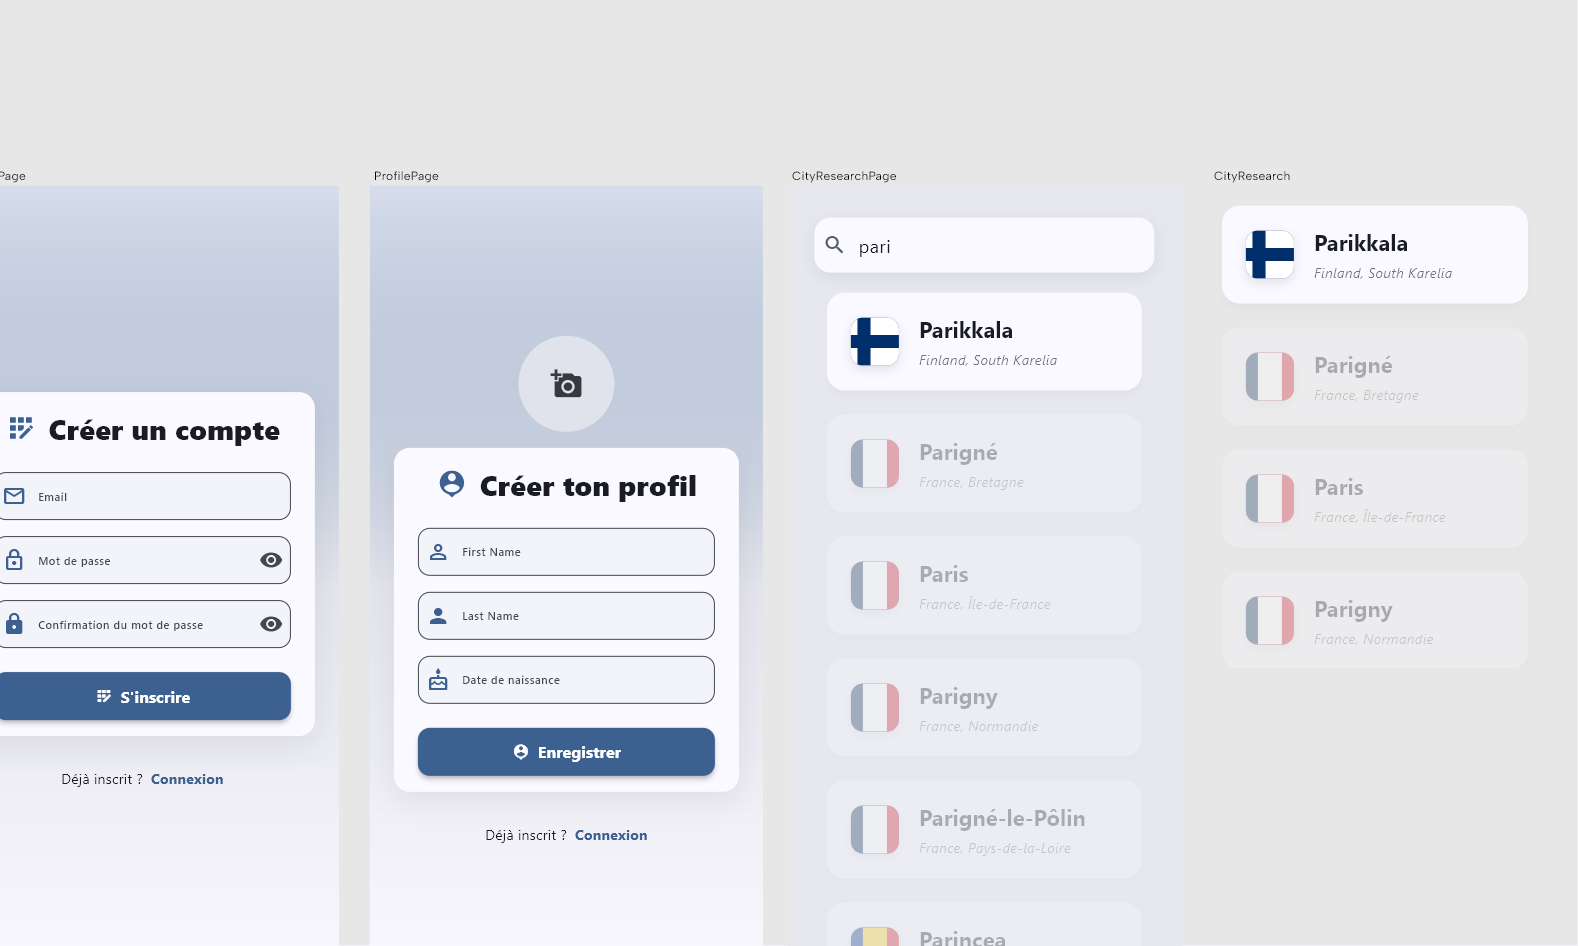
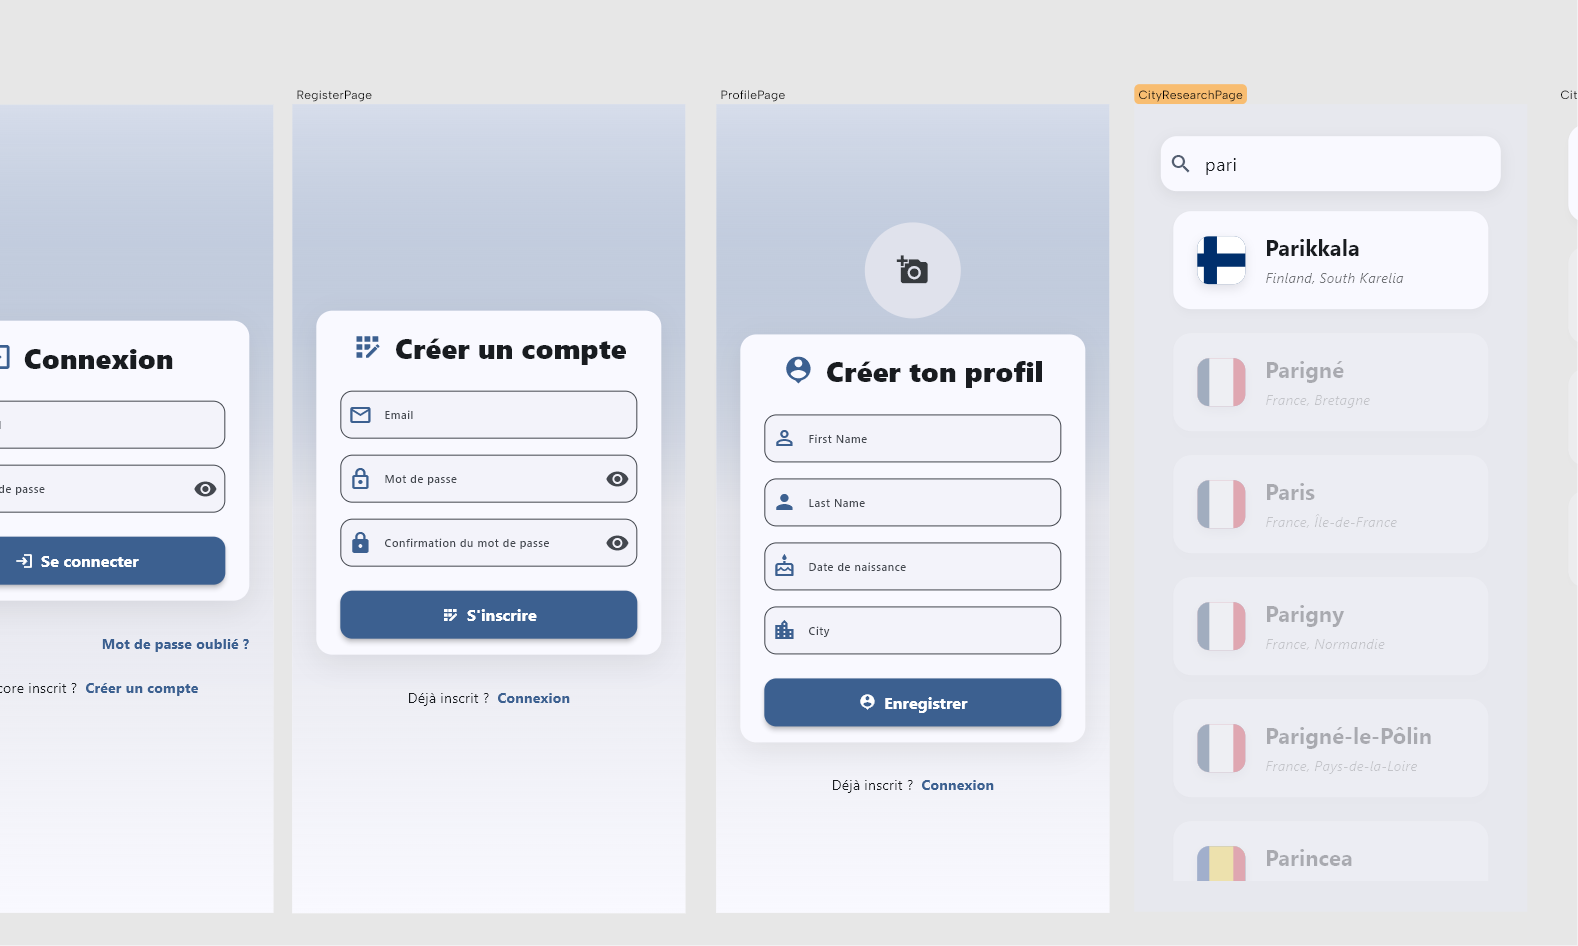
✨ Update city research feature: add city ID and modify card interaction

diff --git a/lib/city_research.dart b/lib/city_research.dart
@@ -19,127 +19,138 @@ class CityResearch extends StatelessWidget {
         separatorBuilder: (context, index) => const SizedBox(height: 16.0),
         itemBuilder: (context, index) {
           final dynamic city = data[index];
+          final dynamic id = city['id'];
           final dynamic name = city['name'];
           final dynamic stateName = city['state'];
           final dynamic countryName = city['country'];
           final dynamic flag = city['flag'];
-          return Card(
-            elevation: 6.0,
-            shape: RoundedRectangleBorder(
-              borderRadius: BorderRadius.circular(18.0),
-            ),
-            color: Theme.of(context).colorScheme.surface,
-            shadowColor: Theme.of(context).colorScheme.shadow.withOpacity(0.1),
-            child: Padding(
-              padding: const EdgeInsets.symmetric(
-                vertical: 22.0,
-                horizontal: 24.0,
+          return InkWell(
+            borderRadius: BorderRadius.circular(18.0),
+            onTap: () {
+              Navigator.pop(context, {'id': id, 'name': name});
+            },
+            child: Card(
+              elevation: 6.0,
+              shape: RoundedRectangleBorder(
+                borderRadius: BorderRadius.circular(18.0),
               ),
-              child: Row(
-                children: [
-                  Container(
-                    width: 48.0,
-                    height: 48.0,
-                    decoration: BoxDecoration(
-                      color: Theme.of(context).colorScheme.primary,
-                      borderRadius: BorderRadius.circular(12.0),
-                      boxShadow: [
-                        BoxShadow(
-                          color: Theme.of(context)
-                              .colorScheme
-                              .shadow
-                              .withOpacity(0.1),
-                          blurRadius: 8.0,
-                          offset: const Offset(0.0, 4.0),
-                        ),
-                      ],
-                    ),
-                    clipBehavior: Clip.antiAlias,
-                    child: flag != null && flag is String && flag.isNotEmpty
-                        ? Stack(
-                            fit: StackFit.expand,
-                            children: [
-                              flag.endsWith('.svg')
-                                  ? SvgPicture.network(
-                                      flag,
-                                      fit: BoxFit.cover,
-                                      width: 48.0,
-                                      height: 48.0,
-                                      placeholderBuilder: (context) => Center(
-                                        child: Icon(
-                                          Icons.flag,
-                                          color: Theme.of(context)
-                                              .colorScheme
-                                              .onPrimaryFixed,
-                                          size: 28.0,
-                                        ),
-                                      ),
-                                    )
-                                  : Image.network(
-                                      flag,
-                                      fit: BoxFit.cover,
-                                      width: 48.0,
-                                      height: 48.0,
-                                      errorBuilder:
-                                          (context, error, stackTrace) =>
-                                              Center(
-                                        child: Icon(
-                                          Icons.flag,
-                                          color: Theme.of(context)
-                                              .colorScheme
-                                              .onPrimaryFixed,
-                                          size: 28.0,
-                                        ),
-                                      ),
-                                    ),
-                            ],
-                          )
-                        : Center(
-                            child: Icon(
-                              Icons.flag,
-                              color:
-                                  Theme.of(context).colorScheme.onPrimaryFixed,
-                              size: 28.0,
-                            ),
+              color: Theme.of(context).colorScheme.surface,
+              shadowColor:
+                  Theme.of(context).colorScheme.shadow.withOpacity(0.1),
+              child: Padding(
+                padding: const EdgeInsets.symmetric(
+                  vertical: 22.0,
+                  horizontal: 24.0,
+                ),
+                child: Row(
+                  children: [
+                    Container(
+                      width: 48.0,
+                      height: 48.0,
+                      decoration: BoxDecoration(
+                        color: Theme.of(context).colorScheme.primary,
+                        borderRadius: BorderRadius.circular(12.0),
+                        boxShadow: [
+                          BoxShadow(
+                            color: Theme.of(context)
+                                .colorScheme
+                                .shadow
+                                .withOpacity(0.1),
+                            blurRadius: 8.0,
+                            offset: const Offset(0.0, 4.0),
                           ),
-                  ),
-                  const SizedBox(width: 20.0),
-                  Expanded(
-                    child: Column(
-                      crossAxisAlignment: CrossAxisAlignment.start,
-                      children: [
-                        Text(
-                          name,
-                          style:
-                              Theme.of(context).textTheme.titleLarge?.copyWith(
-                                        fontWeight: FontWeight.bold,
-                                      ) ??
-                                  const TextStyle(
-                                    fontSize: 20.0,
-                                    fontWeight: FontWeight.bold,
-                                  ),
-                        ),
-                        const SizedBox(height: 6.0),
-                        Text(
-                          '$countryName, $stateName',
-                          style: Theme.of(context)
-                                  .textTheme
-                                  .bodyMedium
-                                  ?.copyWith(
-                                    fontStyle: FontStyle.italic,
-                                    color: Theme.of(
-                                      context,
-                                    ).colorScheme.onSurface.withOpacity(0.6),
-                                  ) ??
-                              const TextStyle(
-                                fontSize: 14.0,
-                                fontStyle: FontStyle.italic,
+                        ],
+                      ),
+                      clipBehavior: Clip.antiAlias,
+                      child: flag != null && flag is String && flag.isNotEmpty
+                          ? Stack(
+                              fit: StackFit.expand,
+                              children: [
+                                flag.endsWith('.svg')
+                                    ? SvgPicture.network(
+                                        flag,
+                                        fit: BoxFit.cover,
+                                        width: 48.0,
+                                        height: 48.0,
+                                        placeholderBuilder: (context) => Center(
+                                          child: Icon(
+                                            Icons.flag,
+                                            color: Theme.of(context)
+                                                .colorScheme
+                                                .onPrimaryFixed,
+                                            size: 28.0,
+                                          ),
+                                        ),
+                                      )
+                                    : Image.network(
+                                        flag,
+                                        fit: BoxFit.cover,
+                                        width: 48.0,
+                                        height: 48.0,
+                                        errorBuilder:
+                                            (context, error, stackTrace) =>
+                                                Center(
+                                          child: Icon(
+                                            Icons.flag,
+                                            color: Theme.of(context)
+                                                .colorScheme
+                                                .onPrimaryFixed,
+                                            size: 28.0,
+                                          ),
+                                        ),
+                                      ),
+                              ],
+                            )
+                          : Center(
+                              child: Icon(
+                                Icons.flag,
+                                color: Theme.of(context)
+                                    .colorScheme
+                                    .onPrimaryFixed,
+                                size: 28.0,
                               ),
-                        ),
-                      ],
+                            ),
                     ),
-                  ),
-                ],
+                    const SizedBox(width: 20.0),
+                    Expanded(
+                      child: Column(
+                        crossAxisAlignment: CrossAxisAlignment.start,
+                        children: [
+                          Text(
+                            name,
+                            style: Theme.of(context)
+                                    .textTheme
+                                    .titleLarge
+                                    ?.copyWith(
+                                      fontWeight: FontWeight.bold,
+                                    ) ??
+                                const TextStyle(
+                                  fontSize: 20.0,
+                                  fontWeight: FontWeight.bold,
+                                ),
+                          ),
+                          const SizedBox(height: 6.0),
+                          Text(
+                            '$countryName, $stateName',
+                            style: Theme.of(context)
+                                    .textTheme
+                                    .bodyMedium
+                                    ?.copyWith(
+                                      fontStyle: FontStyle.italic,
+                                      color: Theme.of(
+                                        context,
+                                      ).colorScheme.onSurface.withOpacity(0.6),
+                                    ) ??
+                                const TextStyle(
+                                  fontSize: 14.0,
+                                  fontStyle: FontStyle.italic,
+                                ),
+                          ),
+                        ],
+                      ),
+                    ),
+                  ],
+                ),
               ),
             ),
           );

diff --git a/lib/pages/profile_page.dart b/lib/pages/profile_page.dart
@@ -4,6 +4,7 @@ import 'package:nowa_runtime/nowa_runtime.dart';
 import 'package:railmates/integrations/supabase_service.dart';
 import 'package:railmates/authentication_form.dart';
 import 'package:railmates/text_form.dart';
+import 'package:railmates/pages/city_research_page.dart';
 import 'package:railmates/pages/login_page.dart';
 
 @NowaGenerated({'x': 420, 'y': 0, 'auto-width': 393.0, 'auto-height': 809.0})
@@ -19,6 +20,8 @@ class ProfilePage extends StatefulWidget {
 
 @NowaGenerated()
 class _ProfilePageState extends State<ProfilePage> {
+  String? cityId;
+
   TextEditingController? firstNameController = TextEditingController();
 
   TextEditingController? lastNameController = TextEditingController();
@@ -143,6 +146,7 @@ class _ProfilePageState extends State<ProfilePage> {
                             firstName: firstNameController?.text,
                             lastName: lastNameController?.text,
                             birthDate: birthDateController?.text,
+                            city: cityId,
                           )
                               .then(
                             (value) {
@@ -178,6 +182,32 @@ class _ProfilePageState extends State<ProfilePage> {
                             required: true,
                             controller: birthDateController,
                             icon: Icons.cake_outlined,
+                          ),
+                          TextForm(
+                            label: 'City',
+                            dateField: false,
+                            required: true,
+                            controller: cityController,
+                            icon: Icons.location_city,
+                            onChanged: null,
+                            onTap: () async {
+                              final result = await Navigator.of(context).push(
+                                MaterialPageRoute(
+                                  builder: (context) =>
+                                      const CityResearchPage(),
+                                ),
+                              );
+                              if (result != null && result is Map) {
+                                setState(() {
+                                  if (result['name'] != null) {
+                                    cityController?.text = result['name'];
+                                  }
+                                  if (result['id'] != null) {
+                                    cityId = result['id'];
+                                  }
+                                });
+                              }
+                            },
                           ),
                         ],
                         icon: Icons.person_pin,

diff --git a/lib/pages/city_research_page.dart b/lib/pages/city_research_page.dart
@@ -20,6 +20,12 @@ class _CityResearchPageState extends State<CityResearchPage> {
   );
 
   @override
+  void initState() {
+    super.initState();
+    searchPrefixController.text = '';
+  }
+
+  @override
   Widget build(BuildContext context) {
     return Scaffold(
       backgroundColor: Theme.of(context).colorScheme.surfaceContainerHigh,
@@ -50,9 +56,9 @@ class _CityResearchPageState extends State<CityResearchPage> {
                     setState(() {});
                   },
                   style: Theme.of(context).textTheme.bodyLarge?.copyWith(
-                    fontSize: 18.0,
-                    color: Theme.of(context).colorScheme.onSurface,
-                  ),
+                        fontSize: 18.0,
+                        color: Theme.of(context).colorScheme.onSurface,
+                      ),
                   decoration: InputDecoration(
                     contentPadding: const EdgeInsets.symmetric(
                       vertical: 18.0,
@@ -60,10 +66,10 @@ class _CityResearchPageState extends State<CityResearchPage> {
                     ),
                     hintText: 'Rechercher une ville',
                     hintStyle: Theme.of(context).textTheme.bodyMedium?.copyWith(
-                      color: Theme.of(
-                        context,
-                      ).colorScheme.onSurface.withOpacity(0.5),
-                    ),
+                          color: Theme.of(
+                            context,
+                          ).colorScheme.onSurface.withOpacity(0.5),
+                        ),
                     prefixIcon: Icon(
                       Icons.search,
                       color: Theme.of(context).colorScheme.secondary,

diff --git a/lib/text_form.dart b/lib/text_form.dart
@@ -12,10 +12,12 @@ class TextForm extends StatefulWidget {
     this.required = false,
     this.obscure = false,
     this.onChanged,
+    this.onTap,
     this.errorMessage = 'Format invalide',
     this.validators,
     super.key,
   });
+  final void Function()? onTap;
 
   final String label;
 
@@ -59,7 +61,7 @@ class _TextFormState extends State<TextForm> {
         crossAxisAlignment: CrossAxisAlignment.start,
         children: [
           TextFormField(
-            readOnly: widget.dateField,
+            readOnly: widget.dateField || widget.onTap != null,
             onTap: widget.dateField
                 ? () async {
                     DateTime defaultInitialDate = DateTime(
@@ -98,7 +100,7 @@ class _TextFormState extends State<TextForm> {
                       setState(() {});
                     }
                   }
-                : null,
+                : widget.onTap,
             validator: (value) {
               if (widget.required && (value == null || value.isEmpty)) {
                 return 'Ce champ est requis';

diff --git a/lib/integrations/supabase_service.dart b/lib/integrations/supabase_service.dart
@@ -64,14 +64,15 @@ class SupabaseService {
   }
 
   Future<PostgrestList> citiesStartingWith(String prefix,
-      [int limit = 10]) async {
+      [int limit = 5]) async {
     final response = await Supabase.instance.client
         .from('cities')
-        .select('name, state_name, country_id(name, flag_url)')
+        .select('id, name, state_name, country_id(name, flag_url)')
         .ilike('name', '$prefix%')
         .limit(limit);
     return (response as List)
         .map((city) => {
+              'id': city['id'],
               'name': city['name'],
               'state': city['state_name'],
               'country': city['country_id']['name'],
